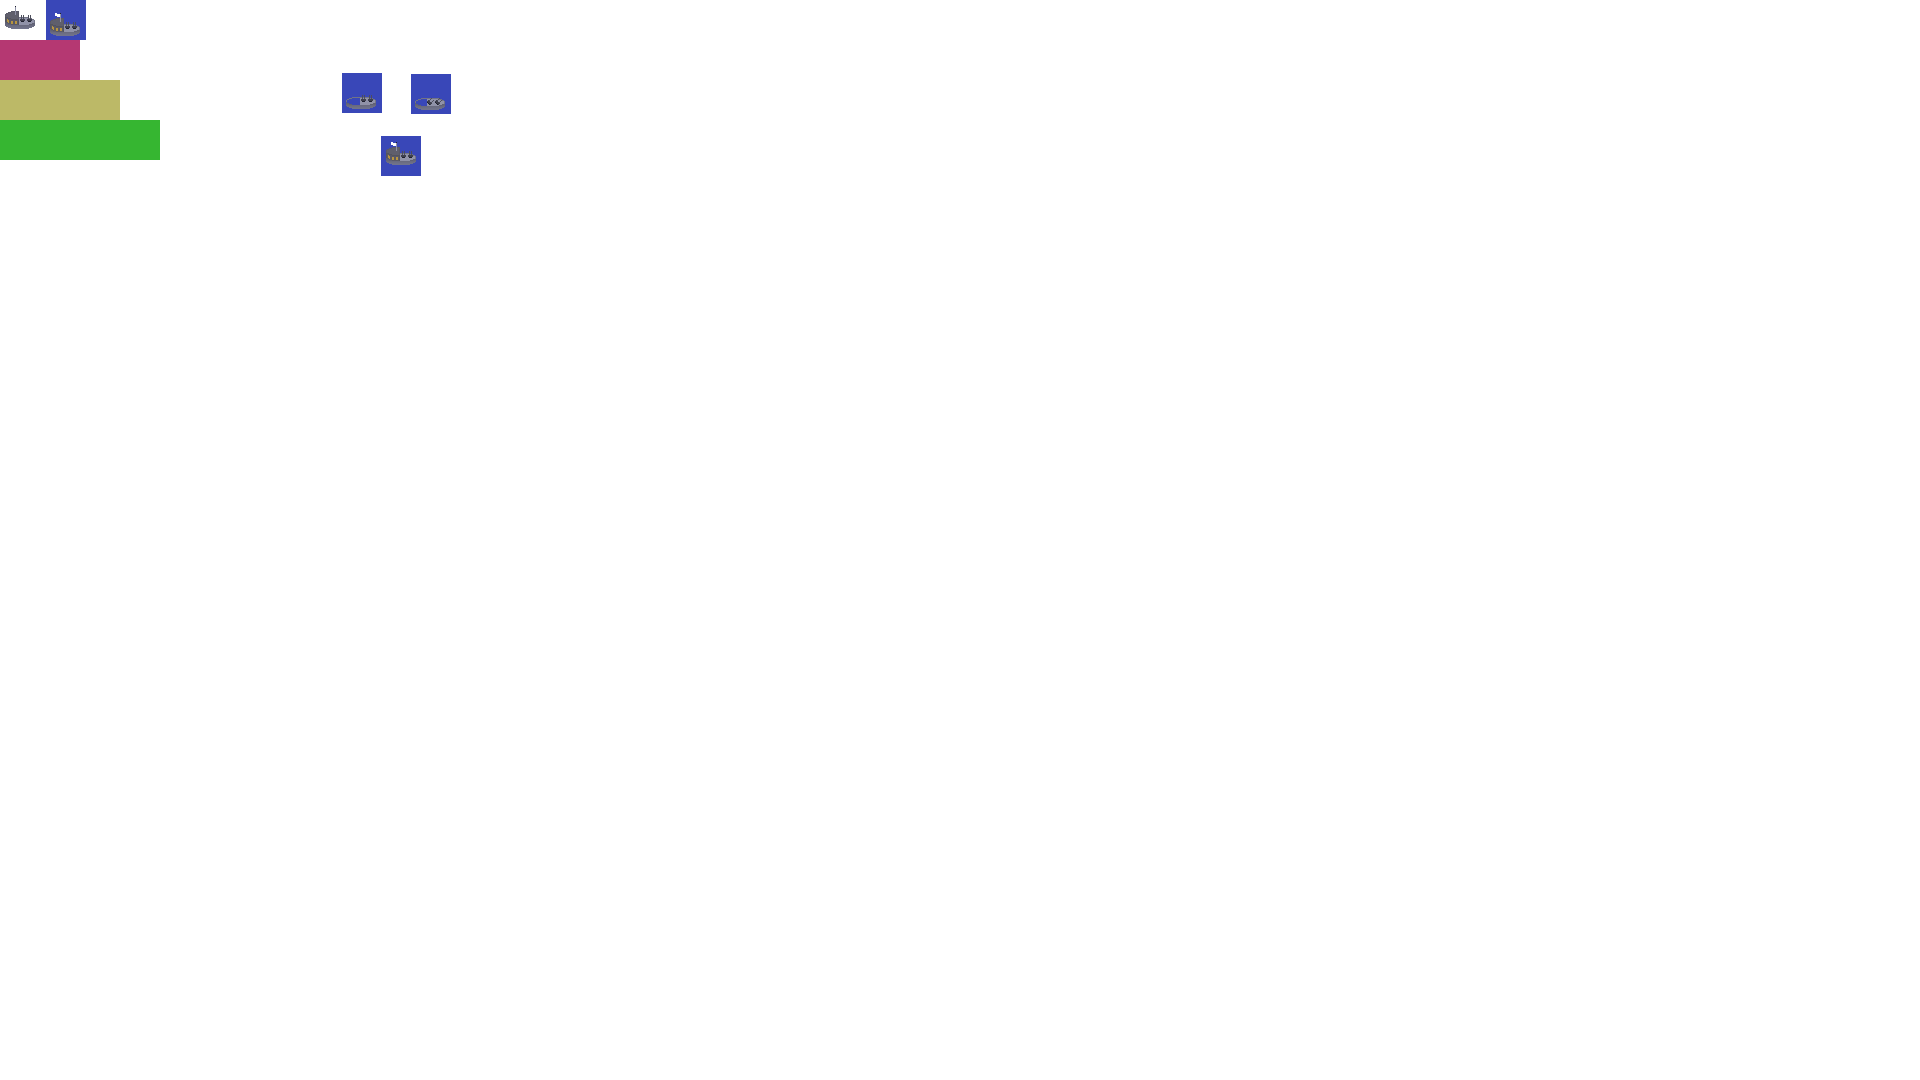
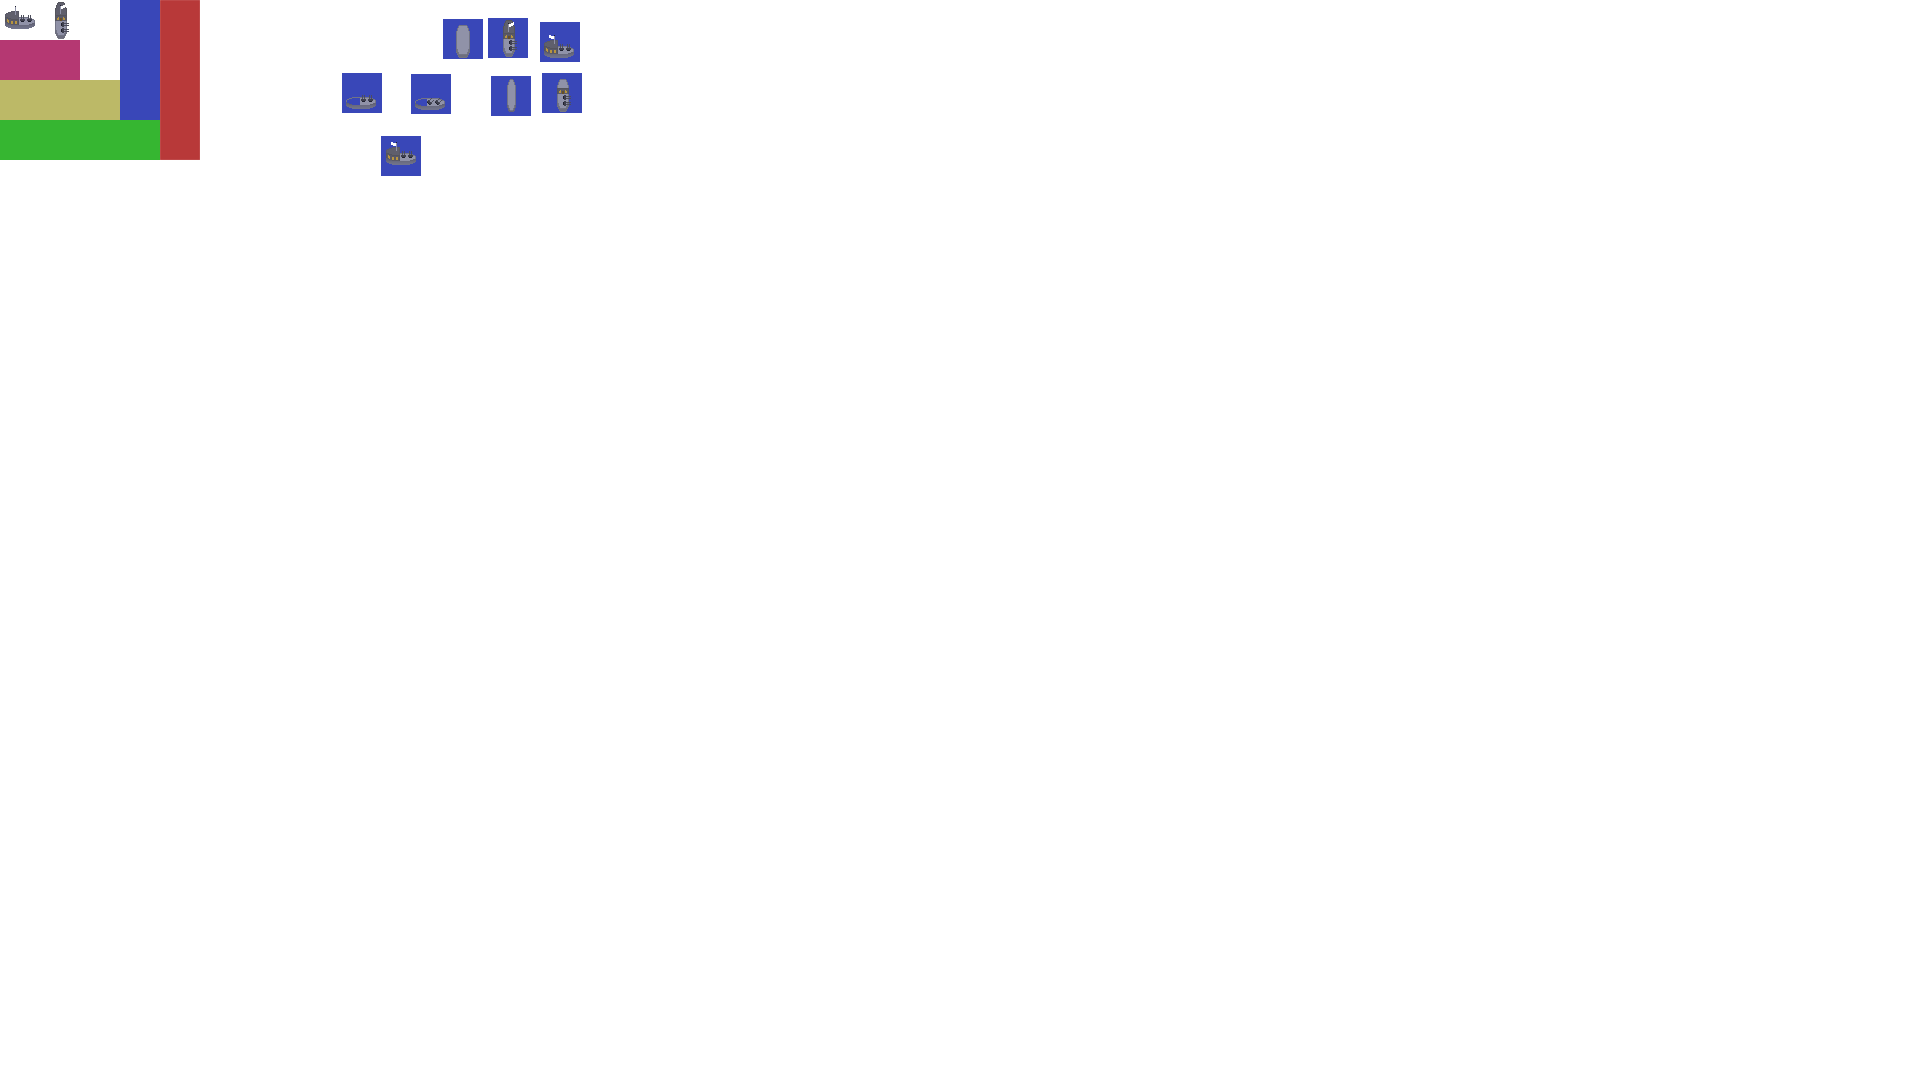
ships texture rotation

Changed region(s): [[0.0, 0.0, 0.125, 0.1528], [0.2188, 0.0, 0.3125, 0.1222]]

diff --git a/Battleships/Ship.cpp b/Battleships/Ship.cpp
@@ -49,10 +49,12 @@ bool Ship::isHorizontal() const
 
 void Ship::rotate()
 {
-	if (type == 1) return;
+	//if (type == 1) return;
 	horizontal = !horizontal;
 	sf::Vector2f size = rectangle.getSize();
 	rectangle.setSize(sf::Vector2f(size.y, size.x));
+	if (horizontal) rectangle.setTextureRect(sf::IntRect(0, 40 * (type - 1), 40 * type, 40));
+	else rectangle.setTextureRect(sf::IntRect(40 * type, 0, 40, 40 * type));
 }
 
 void Ship::setOrientation(bool _horizontal)
